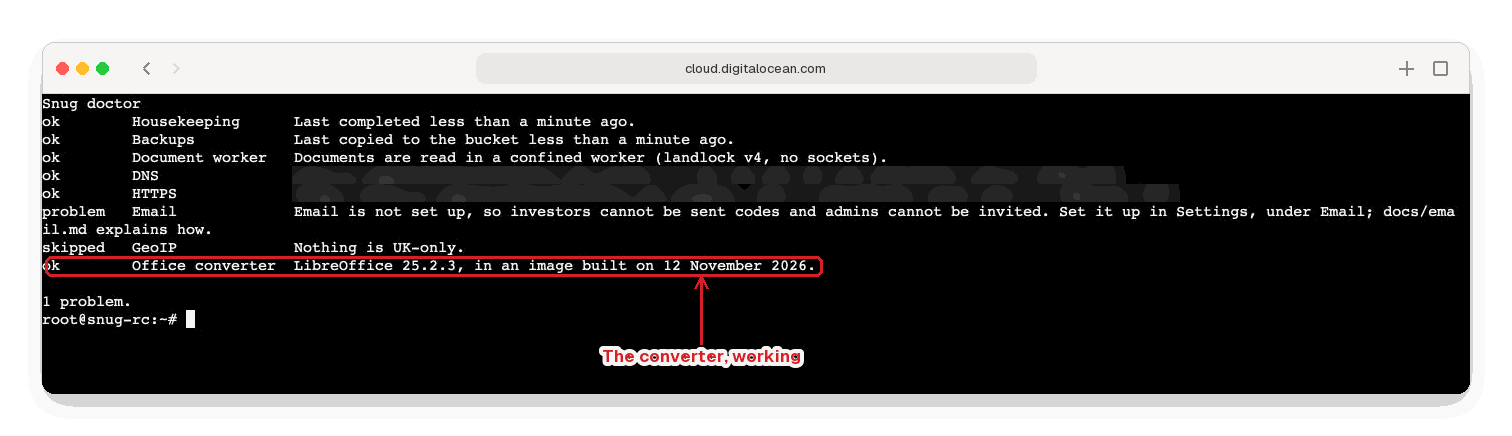
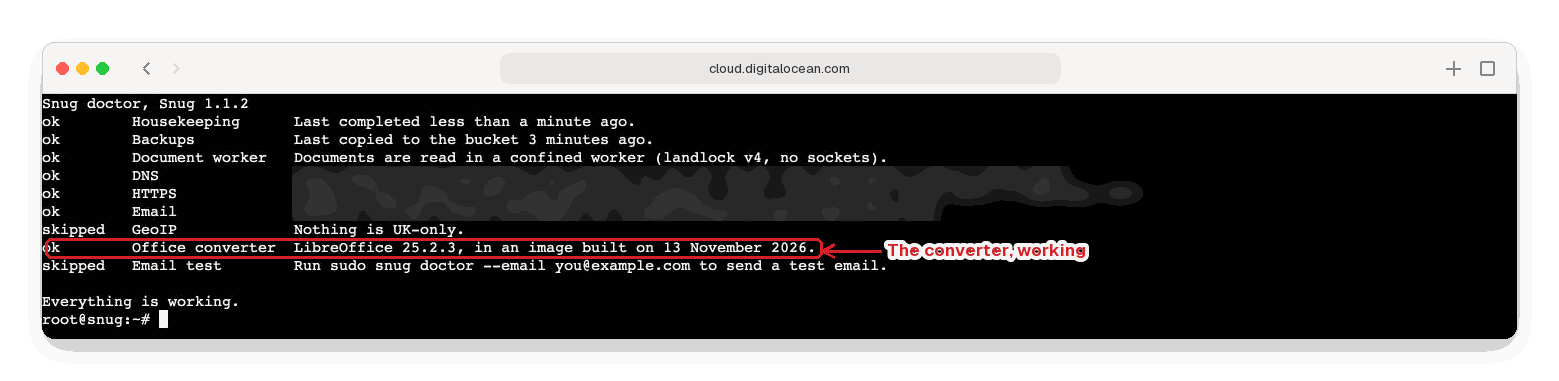
Note the README's platforms section, and retake the doctor screenshot
- CHANGELOG [Unreleased] gains the README's Windows, macOS, and Linux
  section and the serial comma, both merged in #185 without an entry.
- docs/office.md's doctor screenshot came from the snug-rc server, now
  destroyed, and its first line predated the version. It is retaken
  from the live server running 1.1.2, with the domain, the addresses,
  and the email address blurred, and the alt text matches.

Changed region(s): [[0.0, 0.1444, 0.9947, 0.7507], [0.0, 0.7795, 0.9947, 0.9528], [0.0311, 0.0866, 0.9636, 0.1155]]

diff --git a/CHANGELOG.md b/CHANGELOG.md
@@ -4,6 +4,11 @@ All notable changes to Snug are recorded here. The format follows [Keep a Change
 
 ## [Unreleased]
 
+### Changed
+
+- The README has a section on Windows, macOS, and Linux. Snug runs on a Linux server, and founders and investors use it in a web browser on any of them, or on a phone. The guide to trying Snug on your own computer covers a Mac and Linux; Snug has not been tried on Windows.
+- Lists of three or more use the serial comma throughout the interface, emails, and documentation.
+
 ## [1.1.2] - 2026-11-13
 
 `snug version`, and the version in `snug doctor`.

diff --git a/docs/office.md b/docs/office.md
@@ -46,7 +46,7 @@ The command installs gVisor from gVisor's own packages, restarts Docker and with
 
 `sudo snug doctor` then shows the converter working, with its LibreOffice version:
 
-<img alt="snug doctor, ending with ok, Office converter, LibreOffice 25.2.3, in an image built on 12 November 2026." src="images/office/doctor.png">
+<img alt="snug doctor for Snug 1.1.2, with ok, Office converter, LibreOffice 25.2.3, in an image built on 13 November 2026." src="images/office/doctor.png">
 
 ## Keeping it up to date
 
